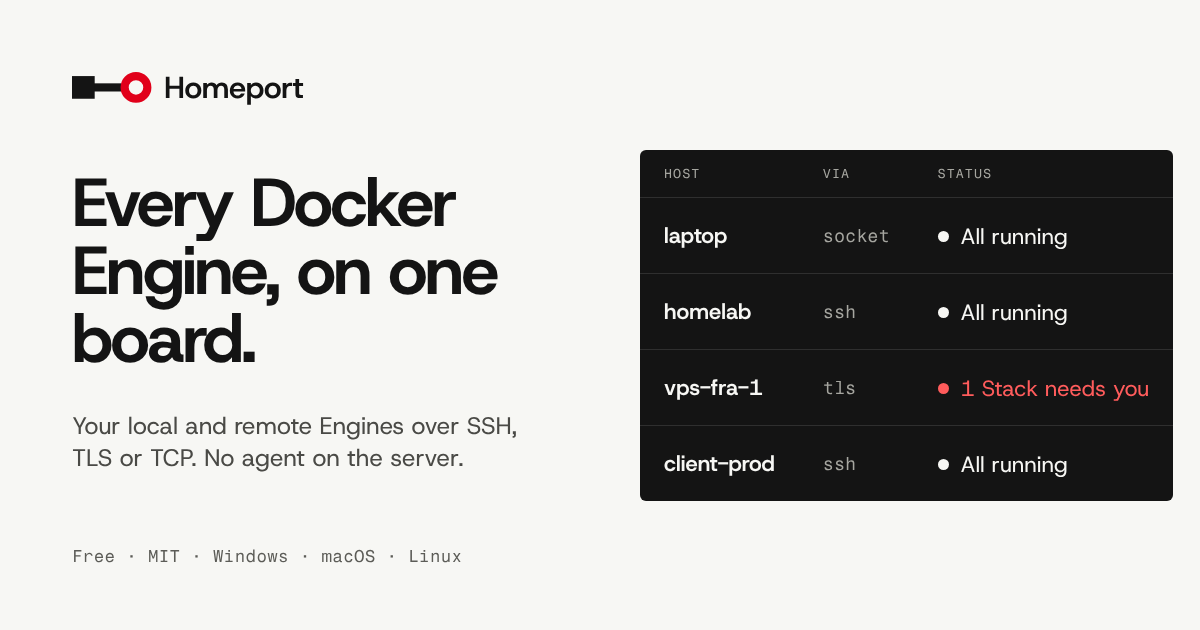
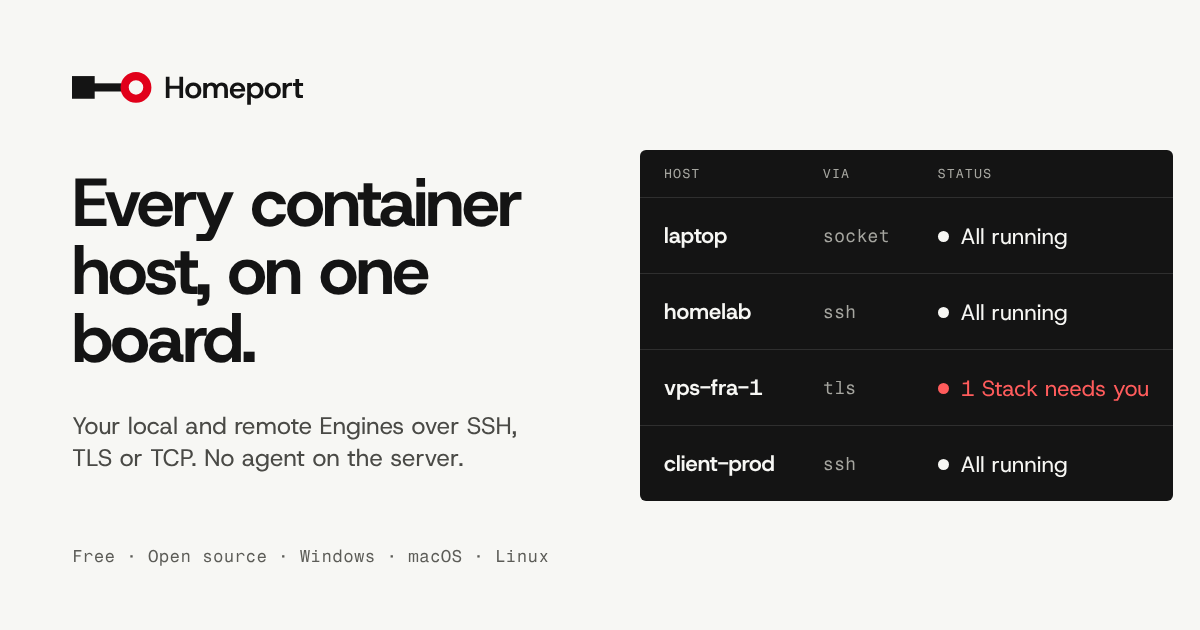
docs(brand): add a trademark policy and drop Docker from the brand
TRADEMARKS.md lets anyone redistribute unmodified builds, package
Homeport, say a product works with it and write about it, but asks a
fork to rename itself and replace the logos. The tagline becomes
"Every container host, on one board." in the app, its bundle, the
README, the website and its social card, and the README, docs and code
no longer compare Homeport to Docker Desktop; the FAQ asks "Do I still
need an Engine?" instead. The README, the website's footer and terms,
and Settings → Licenses say whose trademarks Docker, Podman,
Kubernetes and the others are, and that Homeport is independent of
them. Lists of supported Engines and other factual uses stay.

Refs #213

Claude-Session: https://claude.ai/code/session_018wjvwpDL4vmGa6jiDfCa8M

diff --git a/src/shared/i18n/en/settings.ts b/src/shared/i18n/en/settings.ts
@@ -64,7 +64,7 @@ export default {
     'Each Host keeps at most 10,000 events for the Events page. Older ones are removed every hour.',
   'settings.machine.gitMissing':
     'Synced Stacks need it; every other kind of Stack works without it.',
-  'settings.about.tagline': 'Every Docker Engine, on one board.',
+  'settings.about.tagline': 'Every container host, on one board.',
   'settings.about.openLogFolder': 'Open log folder',
   'settings.about.licenses': 'Licenses',
   'settings.licenses.title': 'Licenses',
@@ -73,6 +73,8 @@ export default {
   'settings.licenses.source':
     'The source code of this version is published under the same licence.',
   'settings.licenses.sourceLink': 'Source of v{version}',
+  'settings.licenses.trademarks':
+    'Docker, Podman, Kubernetes, Helm, Nomad, containerd, Incus, Colima, OrbStack and Rancher Desktop are trademarks of their respective owners. Homeport is an independent project, not affiliated with or endorsed by any of them. The Homeport name and logo are covered by its trademark policy.',
   'settings.licenses.thirdParty': 'Third-party software',
   'settings.licenses.missing.title': 'Not included in this build',
   'settings.licenses.missing.description':

diff --git a/src/features/settings/ui/SettingsPage.test.tsx b/src/features/settings/ui/SettingsPage.test.tsx
@@ -21,6 +21,7 @@ describe('settings licenses', () => {
     await user.click(await screen.findByRole('button', { name: 'Licenses' }));
     expect(await screen.findByText('GNU AFFERO GENERAL PUBLIC LICENSE')).toBeInTheDocument();
     expect(screen.getByRole('button', { name: 'Source of v0.2.0' })).toBeInTheDocument();
+    expect(screen.getByText(/not affiliated with or endorsed by any of them/)).toBeInTheDocument();
     await user.click(screen.getByRole('tab', { name: 'Third-party software' }));
     expect(await screen.findByText('serde 1.0.0 (crate)')).toBeInTheDocument();
   });

diff --git a/website/src/core/site/index.ts b/website/src/core/site/index.ts
@@ -3,6 +3,6 @@ export const REPO = 'DamienReichhart/Homeport';
 export const REPO_URL = `https://github.com/${REPO}`;
 export const RELEASES_URL = `${REPO_URL}/releases`;
 export const ISSUES_URL = `${REPO_URL}/issues`;
-export const TAGLINE = 'Every Docker Engine, on one board.';
+export const TAGLINE = 'Every container host, on one board.';
 export const DESCRIPTION =
   'Homeport is a free, open-source desktop app for managing Docker Engines anywhere — this machine’s, or remote ones over SSH, TLS or TCP — for Windows, macOS and Linux.';

diff --git a/src/features/containers/model/grouping.ts b/src/features/containers/model/grouping.ts
@@ -24,7 +24,7 @@ export function matches(c: Container, query: string): boolean {
   );
 }
 
-/** Nests containers under their Stack, like Docker Desktop's list. */
+/** Nests containers under their Stack, each Stack a row that opens. */
 export function groupByStack(containers: Container[], query = '', onlyRunning = false): Grouped {
   const visible = containers.filter(
     (c) => matches(c, query) && (!onlyRunning || c.state === 'running'),

diff --git a/website/scripts/brand-images.ts b/website/scripts/brand-images.ts
@@ -70,7 +70,7 @@ const CARD = /* html */ `<!doctype html>
 </head>
 <body>
   <img class="lockup" src="lockup-light.svg" alt="" />
-  <h1>Every Docker Engine, on one board.</h1>
+  <h1>Every container host, on one board.</h1>
   <p>Your local and remote Engines over SSH, TLS or TCP. No agent on the server.</p>
   <div class="meta">Free · Open source · Windows · macOS · Linux</div>
   <table>

diff --git a/src/features/settings/ui/dialogs/LicensesDialog.tsx b/src/features/settings/ui/dialogs/LicensesDialog.tsx
@@ -83,6 +83,7 @@ export function LicensesDialog({
             </TabsContent>
           </Tabs>
         )}
+        <p className="text-muted-foreground text-xs">{t('settings.licenses.trademarks')}</p>
       </DialogContent>
     </Dialog>
   );

diff --git a/src-tauri/src/app/appimage.rs b/src-tauri/src/app/appimage.rs
@@ -49,7 +49,7 @@ fn desktop_entry(appimage: &str) -> String {
         "[Desktop Entry]\n\
          Type=Application\n\
          Name=Homeport\n\
-         Comment=Every Docker Engine, docked in one place.\n\
+         Comment=Every container host, on one board.\n\
          Exec={exec}\n\
          TryExec={try_exec}\n\
          Icon={ICON_NAME}\n\

diff --git a/TRADEMARKS.md b/TRADEMARKS.md
@@ -1,0 +1,29 @@
+# Trademark policy
+
+Homeport's code is free software under the [GNU AGPL, version 3](LICENSE). Its **name** is not: "Homeport", and the logos in [`assets/brand/`](assets/brand), belong to Damien Reichhart and identify the official project. The licence lets you copy, change and share the code; this policy says how you may use the name and logo, so that people always know which Homeport they're running.
+
+## What you may do without asking
+
+- **Redistribute unmodified builds** of Homeport, under its name and logo, from the official releases or built from an unmodified tag.
+- **Package Homeport for a distribution** (a Linux distribution, Homebrew, winget, Scoop, the AUR, Flathub, Snap…) under its name, with the minimal patches packaging needs: build flags, paths, dependency versions, disabling the in-app updater. Say in the package that it's a community package, if it is.
+- **Say that something works with Homeport**, like "a Homeport plugin" or "tested with Homeport", as long as it doesn't suggest the project made or endorses it.
+- **Write about Homeport**: articles, tutorials, videos, talks, reviews, comparisons, using its name and logo to refer to it.
+
+## What needs written permission
+
+- **Naming a fork or another product "Homeport"**, or a name likely to be confused with it ("Homeport Pro", "HomePort Desktop"…).
+- **Using the logo** for a fork, a modified build, or another product.
+- **Implying endorsement** by the project or its maintainer, or that a modified build is the official one.
+- **Selling** anything under the Homeport name, including builds of it.
+
+## Forks
+
+Forks are welcome; the licence allows them. A fork that changes more than packaging needs must be renamed and must replace the logos and icons (`assets/brand/`, `src-tauri/icons/`, `website/public/`) with its own. It may say it is "based on Homeport" or "a fork of Homeport".
+
+## Other names
+
+Docker, Podman, Kubernetes, Helm, Nomad, containerd, Incus, Colima, OrbStack and Rancher Desktop are trademarks of their respective owners. Homeport is an independent project, not affiliated with or endorsed by any of them. Homeport names them only to say what it works with.
+
+## Questions
+
+Ask in an [issue](https://github.com/DamienReichhart/Homeport/issues) before you use the name in a way this page doesn't cover.

diff --git a/README.md b/README.md
@@ -5,11 +5,11 @@
   </picture>
 </h1>
 
-**Every Docker Engine, on one board.**
+**Every container host, on one board.**
 
 [Website](https://damienreichhart.github.io/Homeport/) · [Documentation](https://damienreichhart.github.io/Homeport/docs/) · [Download](https://damienreichhart.github.io/Homeport/download/)
 
-A desktop app for managing Docker Engines anywhere — this machine's, or remote ones over SSH, TLS or TCP — in the spirit of Docker Desktop. Built with [Tauri 2](https://tauri.app), React 19, TypeScript and Rust ([bollard](https://github.com/fussybeaver/bollard) for the Engine API, SQLite for its own data).
+A desktop app for managing Docker Engines anywhere — this machine's, or remote ones over SSH, TLS or TCP. Built with [Tauri 2](https://tauri.app), React 19, TypeScript and Rust ([bollard](https://github.com/fussybeaver/bollard) for the Engine API, SQLite for its own data).
 
 ## Features
 
@@ -113,4 +113,6 @@ website/             the website and user documentation
 
 ## License
 
-[AGPL-3.0-only](LICENSE) © Damien Reichhart. Versions up to 0.11 were released under the MIT License and stay available under it. Third-party software is listed in the generated notices described above.
+[AGPL-3.0-only](LICENSE) © Damien Reichhart. Versions up to 0.11 were released under the MIT License and stay available under it. Third-party software is listed in the generated notices described above. Contributions need a signed [Contributor License Agreement](CLA.md); see [CONTRIBUTING.md](CONTRIBUTING.md). The Homeport name and logo are covered by the [trademark policy](TRADEMARKS.md).
+
+Docker, Podman, Kubernetes, Helm, Nomad, containerd, Incus, Colima, OrbStack and Rancher Desktop are trademarks of their respective owners. Homeport is an independent project, not affiliated with or endorsed by any of them.

diff --git a/website/src/content/docs/docs/reference/faq.md b/website/src/content/docs/docs/reference/faq.md
@@ -13,9 +13,11 @@ Nothing changes if you use Homeport: install it, run it at home or at work, on a
 
 Versions up to 0.11 were released under the MIT licence and stay available under it. If the AGPL doesn't fit what you want to build with Homeport, a commercial licence can be arranged: [open an issue](https://github.com/DamienReichhart/Homeport/issues) or write to the maintainer.
 
-### Does Homeport replace Docker Desktop?
+The name and logo are covered separately, by the [trademark policy](https://github.com/DamienReichhart/Homeport/blob/main/TRADEMARKS.md): a fork must use its own.
 
-Not entirely. Homeport is a manager: it doesn't run a Docker Engine itself. On Linux, install Docker Engine and use Homeport as its interface. On macOS and Windows you still need something that runs the Engine — Docker Desktop, Colima, OrbStack, Rancher Desktop or Podman — and Homeport can sit on top of any of them, along with your remote servers.
+### Do I still need an Engine?
+
+Yes. Homeport is a manager: it doesn't run an Engine itself. On Linux, install Docker Engine and use Homeport as its interface. On macOS and Windows you still need something that runs the Engine — Docker Desktop, Colima, OrbStack, Rancher Desktop or Podman — and Homeport can sit on top of any of them, along with your remote servers.
 
 ### Does it work with Podman?
 

diff --git a/docs/BRAND.md b/docs/BRAND.md
@@ -2,7 +2,9 @@
 
 Homeport stays on your machine and visits your servers. It never moves in. The identity is built to feel **steady**: calm, neutral and legible from across a room, with one red signal that you trust without thinking. The references are a railway station clock (neutral face, one loud red hand), maritime signal flags (flat colour, one exact meaning each) and Shaker joinery (nothing decorative that doesn't do a job). ADR 0007 records why it replaced the harbour identity.
 
-Tagline: **Every Docker Engine, on one board.**
+Tagline: **Every container host, on one board.**
+
+The brand names no Engine: Homeport works with many, and their names are their owners' trademarks (ADR 0016). Name Docker, Podman and the others only to say what Homeport works with, never in a tagline, a description or a comparison, and use none of their logos. The name and logo of Homeport itself are covered by [TRADEMARKS.md](../TRADEMARKS.md).
 
 ## Mark
 

diff --git a/docs/adr/0007-platform-identity.md b/docs/adr/0007-platform-identity.md
@@ -25,4 +25,4 @@ The project's position is that Homeport stays on your machine and visits your se
 - Charts can no longer rely on hue to tell series apart: a second series in a chart is dashed.
 - The website's hero is a typeset board of Hosts, not a screenshot. Screenshots are still captured from the real UI with mocked IPC (`bun run screenshots`, with Firefox or `CHROMIUM=…`).
 - Host Grotesk's hyphen is wide, so hyphenated names read a little like dashes in the sans. Setting machine identifiers in Fragment Mono is the follow-up.
-- The tagline changes from "docked in one place" to "on one board", dropping the last nautical word except the name itself.
+- The tagline changes from "docked in one place" to "on one board", dropping the last nautical word except the name itself. (ADR 0016 then replaces "Every Docker Engine" with "Every container host".)
